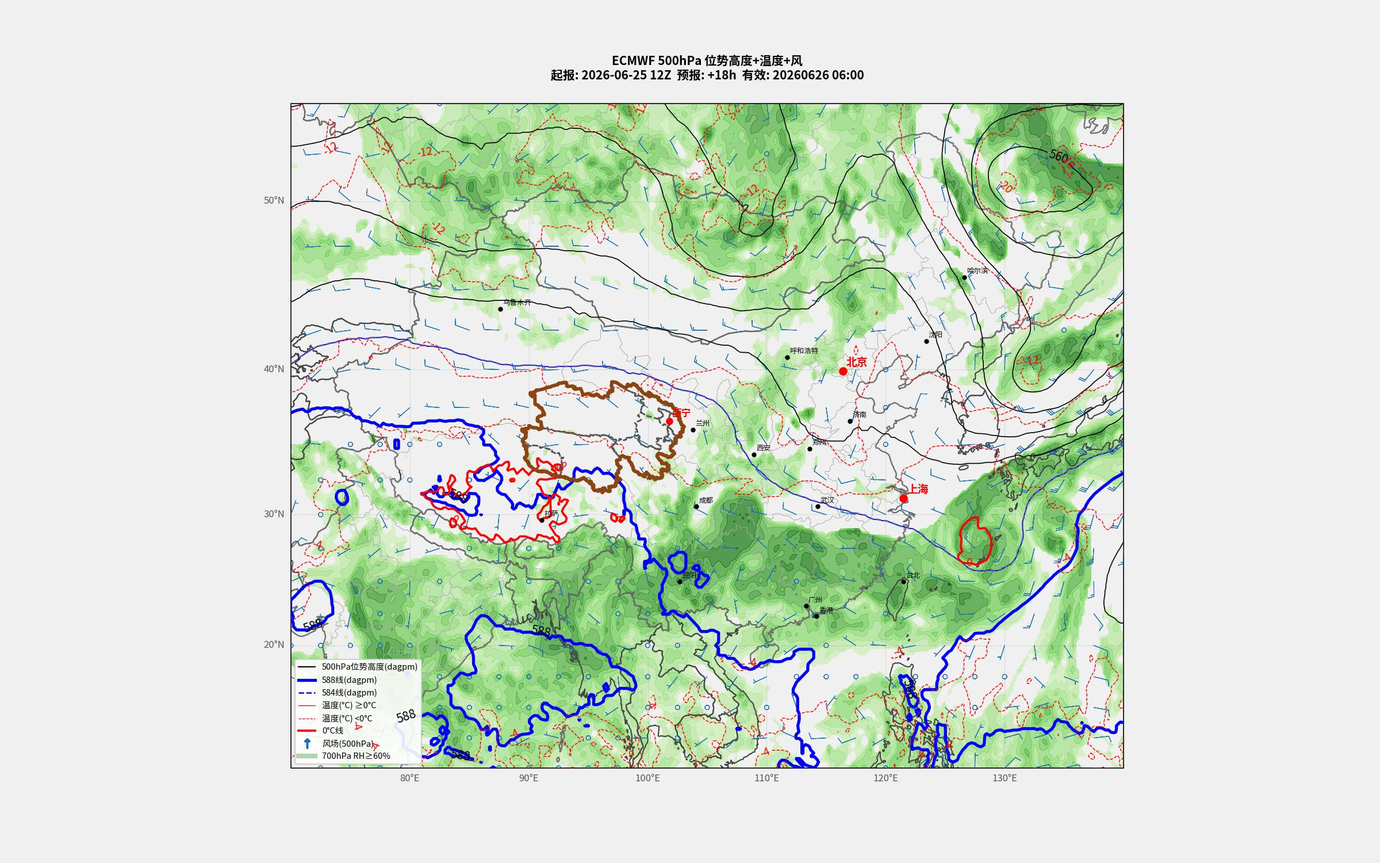
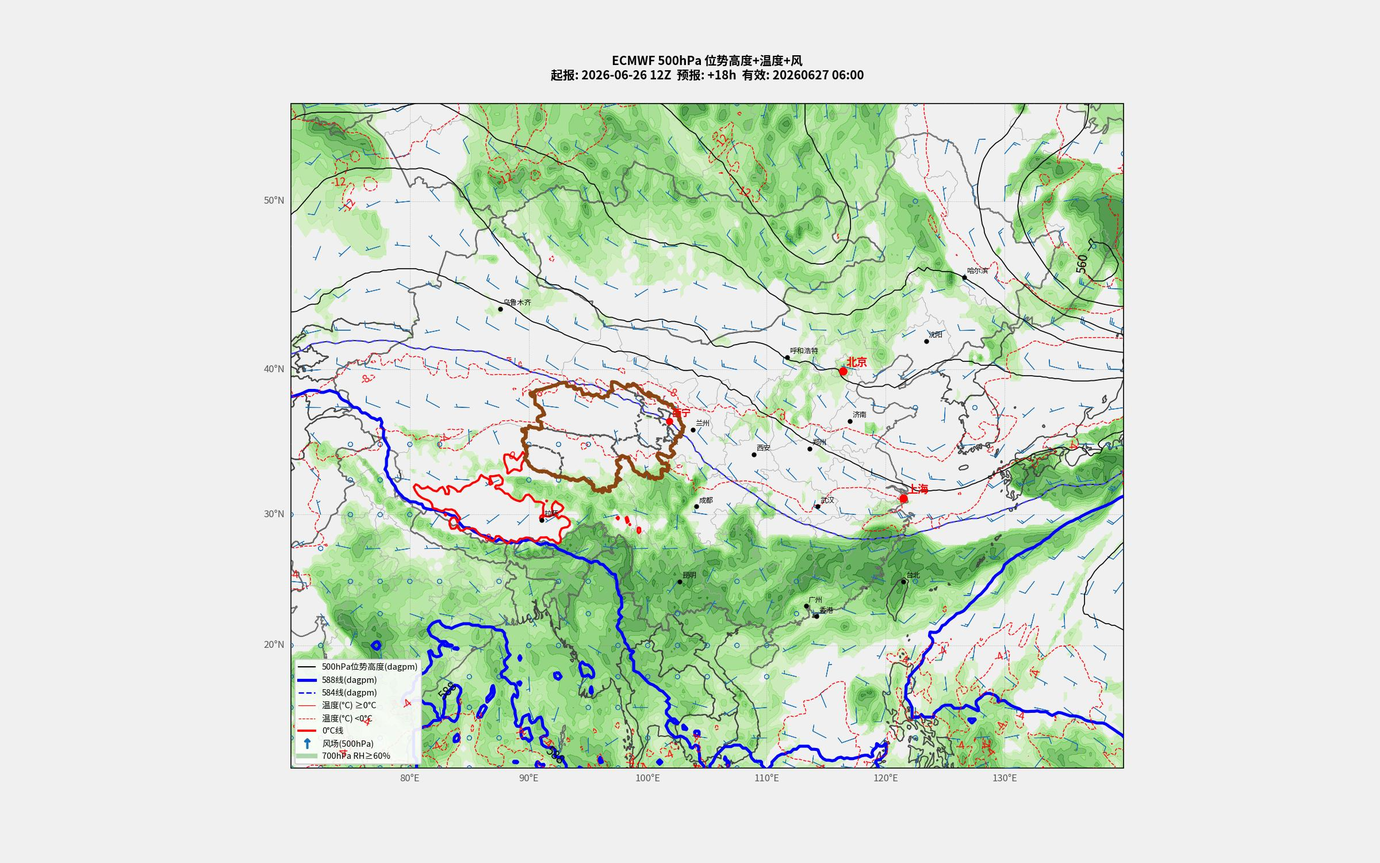
晨报网页 2026-06-27

Changed region(s): [[0.1875, 0.1227, 0.8125, 0.8893], [0.2188, 0.8587, 0.25, 0.8893]]

diff --git a/index.html b/index.html
@@ -2,215 +2,231 @@
 <html lang="zh-CN">
 <head>
 <meta charset="UTF-8">
+<meta name="date" content="2026-06-27">
 <meta name="viewport" content="width=device-width, initial-scale=1.0">
-<title>Hermes 气象晨报 | 2026年6月26日</title>
+<title>Hermes 气象日报 | 2026年6月27日</title>
 <style>
 * { margin: 0; padding: 0; box-sizing: border-box; }
-body { font-family: -apple-system, "PingFang SC", "Microsoft YaHei", "Helvetica Neue", sans-serif; background: #f0f2f5; color: #333; line-height: 1.7; }
-.container { max-width: 900px; margin: 0 auto; padding: 20px 16px; }
-.header { background: linear-gradient(135deg, #1a237e 0%, #283593 50%, #3949ab 100%); color: white; padding: 36px 24px; border-radius: 16px; text-align: center; margin-bottom: 24px; position: relative; box-shadow: 0 4px 20px rgba(26,35,126,0.3); }
-.header .back-btn { position: absolute; left: 20px; top: 20px; color: rgba(255,255,255,0.8); text-decoration: none; font-size: 14px; padding: 6px 14px; border: 1px solid rgba(255,255,255,0.3); border-radius: 20px; transition: all 0.2s; }
-.header .back-btn:hover { background: rgba(255,255,255,0.15); color: white; }
-.header h1 { font-size: 26px; font-weight: 700; margin-bottom: 6px; }
-.header .date { font-size: 15px; opacity: 0.85; }
-.header .subtitle { font-size: 13px; opacity: 0.65; margin-top: 8px; }
-.section { background: white; border-radius: 14px; padding: 24px; margin-bottom: 20px; box-shadow: 0 2px 8px rgba(0,0,0,0.06); border: 1px solid #e8ecf1; }
-.section-title { font-size: 20px; font-weight: 700; color: #1a237e; margin-bottom: 16px; padding-bottom: 10px; border-bottom: 3px solid #e8ecf1; display: flex; align-items: center; gap: 8px; }
+body { font-family: -apple-system, BlinkMacSystemFont, 'Segoe UI', 'PingFang SC', 'Hiragino Sans GB', 'Microsoft YaHei', sans-serif; background: #f0f2f5; color: #333; line-height: 1.8; }
+.container { max-width: 800px; margin: 0 auto; background: #fff; box-shadow: 0 0 30px rgba(0,0,0,0.08); }
+.header { background: linear-gradient(135deg, #1a237e 0%, #283593 50%, #3949ab 100%); color: #fff; padding: 40px 30px; text-align: center; position: relative; }
+.header h1 { font-size: 28px; font-weight: 700; letter-spacing: 2px; margin-bottom: 5px; }
+.header .subtitle { font-size: 14px; opacity: 0.8; margin-top: 8px; }
+.header .date-badge { display: inline-block; background: rgba(255,255,255,0.15); padding: 4px 16px; border-radius: 20px; font-size: 13px; margin-top: 10px; }
+.back-btn { position: absolute; top: 15px; left: 15px; color: rgba(255,255,255,0.8); text-decoration: none; font-size: 14px; padding: 6px 12px; border-radius: 4px; transition: all 0.3s; }
+.back-btn:hover { background: rgba(255,255,255,0.1); color: #fff; }
+.section { padding: 30px; border-bottom: 1px solid #eee; }
+.section:last-child { border-bottom: none; }
+.section-title { font-size: 20px; font-weight: 700; margin-bottom: 18px; display: flex; align-items: center; gap: 8px; color: #1a237e; }
 .section-title .icon { font-size: 24px; }
-.weather-card { background: linear-gradient(135deg, #e3f2fd 0%, #bbdefb 100%); border-radius: 12px; padding: 20px; margin-bottom: 16px; }
-.weather-card .city { font-size: 18px; font-weight: 600; color: #1565c0; margin-bottom: 8px; }
-.weather-card .temp { font-size: 42px; font-weight: 300; color: #0d47a1; }
-.weather-card .temp span { font-size: 18px; font-weight: 400; }
-.weather-card .desc { font-size: 15px; color: #37474f; margin-top: 8px; }
-.weather-card .detail { font-size: 14px; color: #546e7a; margin-top: 6px; }
+.weather-card { background: linear-gradient(135deg, #e3f2fd, #bbdefb); border-radius: 12px; padding: 20px; margin-bottom: 10px; }
+.weather-row { display: flex; justify-content: space-between; align-items: center; flex-wrap: wrap; gap: 10px; }
+.weather-temp { font-size: 36px; font-weight: 700; color: #1a237e; }
+.weather-desc { font-size: 16px; color: #555; }
+.weather-detail { font-size: 14px; color: #666; margin-top: 8px; }
 .news-list { list-style: none; }
-.news-list li { padding: 10px 0; border-bottom: 1px solid #f0f2f5; }
+.news-list li { padding: 10px 0; border-bottom: 1px dashed #e0e0e0; }
 .news-list li:last-child { border-bottom: none; }
-.news-link { color: #1a237e; text-decoration: none; font-size: 15px; display: block; transition: color 0.2s; }
-.news-link:hover { color: #3949ab; text-decoration: underline; }
-.news-link .tag { display: inline-block; font-size: 11px; padding: 1px 8px; border-radius: 10px; margin-right: 6px; font-weight: 600; vertical-align: middle; }
-.tag-domestic { background: #e3f2fd; color: #1565c0; }
-.tag-international { background: #fce4ec; color: #c62828; }
-.quote-box { background: linear-gradient(135deg, #fff8e1, #fff3e0); border-left: 4px solid #ff8f00; padding: 16px 20px; border-radius: 0 10px 10px 0; margin: 12px 0; }
-.quote-box .en { font-size: 18px; font-weight: 500; color: #333; font-style: italic; }
-.quote-box .cn { font-size: 14px; color: #666; margin-top: 6px; }
-.quote-box .author { font-size: 13px; color: #999; margin-top: 6px; text-align: right; }
+.news-link { color: #1a237e; text-decoration: none; font-size: 15px; transition: color 0.2s; }
+.news-link:hover { color: #ff6f00; text-decoration: underline; }
+.news-tag { display: inline-block; font-size: 11px; padding: 1px 8px; border-radius: 3px; margin-right: 6px; color: #fff; }
+.tag-domestic { background: #1a237e; }
+.tag-international { background: #00897b; }
+.quote-box { background: linear-gradient(135deg, #fff8e1, #ffecb3); border-left: 4px solid #ff8f00; border-radius: 8px; padding: 20px; margin: 10px 0; }
+.quote-text { font-size: 18px; font-style: italic; color: #333; line-height: 1.6; }
+.quote-author { text-align: right; font-size: 14px; color: #888; margin-top: 10px; }
 .joke-box { background: linear-gradient(135deg, #fce4ec, #f8bbd0); border-radius: 12px; padding: 20px; }
-.joke-box .joke-title { font-size: 17px; color: #880e4f; margin-bottom: 10px; }
-.joke-box p { font-size: 15px; color: #333; margin-bottom: 8px; line-height: 1.8; }
-.joke-box .punchline { font-weight: 600; color: #c62828; }
-.idiom-box { background: #fff3e0; border-radius: 12px; padding: 20px; }
-.idiom-box .idiom-title { font-size: 28px; font-weight: 700; color: #e65100; text-align: center; margin-bottom: 8px; }
-.idiom-box .pinyin { text-align: center; color: #888; font-size: 14px; margin-bottom: 12px; }
-.idiom-box .meaning { font-size: 15px; color: #333; }
-.idiom-box .story { font-size: 14px; color: #555; margin-top: 8px; padding: 12px; background: rgba(255,255,255,0.7); border-radius: 8px; }
-.balance-box { display: flex; align-items: center; justify-content: space-between; background: linear-gradient(135deg, #e8f5e9, #c8e6c9); padding: 16px 20px; border-radius: 12px; }
-.balance-box .label { font-size: 15px; color: #2e7d32; }
-.balance-box .amount { font-size: 28px; font-weight: 700; color: #1b5e20; }
-.balance-box .status { font-size: 13px; color: #558b2f; }
-.weather-imgs h3 { font-size: 18px; color: #1a237e; margin: 20px 0 10px; padding-bottom: 6px; border-bottom: 2px solid #e0e0e0; }
-.weather-imgs h3:first-of-type { margin-top: 0; }
-.img-grid { display: grid; grid-template-columns: 1fr 1fr; gap: 12px; margin-bottom: 18px; }
-.img-grid .img-item { border-radius: 10px; overflow: hidden; background: #f5f5f5; border: 1px solid #e0e0e0; }
-.img-grid .img-item img { width: 100%; height: auto; display: block; }
-.img-grid .img-item .label { padding: 6px 10px; font-size: 12px; color: #555; text-align: center; background: #fafafa; }
+.joke-item { padding: 8px 0; font-size: 15px; color: #333; }
+.idiom-box { background: linear-gradient(135deg, #e8f5e9, #c8e6c9); border-radius: 12px; padding: 20px; }
+.idiom-word { font-size: 28px; font-weight: 700; color: #2e7d32; text-align: center; margin-bottom: 10px; }
+.idiom-meaning { font-size: 15px; color: #333; line-height: 1.8; }
+.balance-box { background: linear-gradient(135deg, #e8eaf6, #c5cae9); border-radius: 12px; padding: 20px; text-align: center; }
+.balance-amount { font-size: 36px; font-weight: 700; color: #1a237e; }
+.balance-label { font-size: 14px; color: #666; margin-top: 4px; }
+.balance-status { display: inline-block; margin-top: 8px; font-size: 13px; padding: 4px 12px; border-radius: 12px; background: #4caf50; color: #fff; }
+.map-section { padding: 30px; }
+.map-group { margin-bottom: 30px; }
+.map-group-title { font-size: 18px; font-weight: 700; margin-bottom: 12px; color: #1a237e; display: flex; align-items: center; gap: 6px; }
+.map-grid { display: grid; grid-template-columns: 1fr 1fr; gap: 12px; }
+.map-item { border-radius: 8px; overflow: hidden; box-shadow: 0 2px 8px rgba(0,0,0,0.1); }
+.map-item img { width: 100%; height: auto; display: block; }
+.map-label { background: #f5f5f5; padding: 6px 10px; font-size: 12px; color: #555; text-align: center; }
+.footer { background: #1a237e; color: rgba(255,255,255,0.7); text-align: center; padding: 20px; font-size: 12px; }
+.footer a { color: rgba(255,255,255,0.9); text-decoration: none; }
+.section-subtitle { font-size: 13px; color: #999; margin-top: -12px; margin-bottom: 18px; }
 @media (max-width: 600px) {
-  .container { padding: 12px 8px; }
-  .header { padding: 28px 16px; }
+  .container { margin: 0; }
+  .header { padding: 30px 20px; }
   .header h1 { font-size: 22px; }
-  .section { padding: 16px; }
-  .img-grid { grid-template-columns: 1fr; }
-  .balance-box { flex-direction: column; text-align: center; gap: 8px; }
+  .section { padding: 20px; }
+  .map-grid { grid-template-columns: 1fr; }
+  .weather-temp { font-size: 28px; }
 }
-.back-top { position: fixed; bottom: 30px; right: 20px; background: #1a237e; color: white; width: 44px; height: 44px; border-radius: 50%; display: flex; align-items: center; justify-content: center; text-decoration: none; font-size: 20px; box-shadow: 0 2px 10px rgba(0,0,0,0.2); z-index: 100; }
-.footer { text-align: center; padding: 20px; color: #999; font-size: 12px; }
 </style>
 </head>
 <body>
-
 <div class="container">
 
 <!-- Header -->
 <div class="header">
   <a href="/" class="back-btn">← 返回首页</a>
-  <h1>☀ Hermes 气象晨报</h1>
-  <div class="date">2026年6月26日 · 星期五 · 农历五月十二</div>
-  <div class="subtitle">每日清晨，准时送达</div>
+  <h1>🌤 Hermes 气象日报</h1>
+  <div class="subtitle">清晨六点 · 准时送达</div>
+  <div class="date-badge">📅 2026年6月27日 · 星期六 · 农历五月十三</div>
 </div>
 
-<!-- Section 1: 每日天气 -->
+<!-- 📅 每日天气 -->
 <div class="section">
   <div class="section-title"><span class="icon">📅</span> 每日天气 · 青海西宁</div>
   <div class="weather-card">
-    <div class="city">📍 西宁市</div>
-    <div class="temp">10°C ~ 22°C <span>小雨转多云</span></div>
-    <div class="desc">🌧 今日西宁有小雨，午后逐渐转为多云，东南风2-3级。体感凉爽，出门请携带雨具。紫外线弱，适合室内活动。</div>
-    <div class="detail">💡 青海省东部有弱降水过程，青南地区局地有中雨。GFS显示青藏高原东部有小范围降水中心，24h累计降水5-15mm。</div>
-    <div class="detail">🌡 六月西宁平均气温约15.4°C，昼夜温差较大（10-22°C），早晚建议添加薄外套，谨防感冒。</div>
+    <div class="weather-row">
+      <div>
+        <div class="weather-temp">12°C ~ 26°C</div>
+        <div class="weather-desc">☀ 晴间多云 · 舒适宜人</div>
+      </div>
+      <div style="text-align:right;font-size:48px;">☀</div>
+    </div>
+    <div class="weather-detail">
+      🌬 微风 2-3级 · 💧 湿度 45% · 🕶 紫外线强（建议防晒）
+    </div>
+    <div class="weather-detail" style="margin-top:6px;">
+      青海省大部以晴或多云为主，海北、果洛部分地区有阵雨，西宁午后最高26°C，体感舒适。
+      明日（6月28日）西宁多云，气温13~25°C。
+    </div>
   </div>
 </div>
 
-<!-- Section 2: 最新要闻 -->
+<!-- 📰 最新要闻 -->
 <div class="section">
   <div class="section-title"><span class="icon">📰</span> 最新要闻</div>
+  <div class="section-subtitle">来源：中国新闻网 · 6月26日-27日</div>
 
-  <h3 style="color:#1565c0; font-size:16px; margin:12px 0 8px;">🇨🇳 国内新闻</h3>
+  <h3 style="font-size:16px;color:#1a237e;margin-bottom:8px;">🇨🇳 国内新闻</h3>
   <ul class="news-list">
-    <li><a class="news-link" href="https://www.chinanews.com.cn/gn/2026/06-25/10647318.shtml" target="_blank"><span class="tag tag-domestic">要闻</span>习近平赴山东德州考察，心系粮食安全等"国之大者"</a></li>
-    <li><a class="news-link" href="https://www.chinanews.com.cn/gn/2026/06-25/10647027.shtml" target="_blank"><span class="tag tag-domestic">要闻</span>"七一"前夕习近平走进小村庄：传递对基层党建和正确政绩观的思考</a></li>
-    <li><a class="news-link" href="https://www.chinanews.com.cn/gn/2026/06-25/10647298.shtml" target="_blank"><span class="tag tag-domestic">国防</span>国防部谈福建舰航经台湾海峡：例行训练，今后还会继续组织</a></li>
-    <li><a class="news-link" href="https://www.chinanews.com.cn/gn/2026/06-25/10647115.shtml" target="_blank"><span class="tag tag-domestic">外交</span>外交部回应台洪"复交"：洪都拉斯已对台当局谎言作出澄清</a></li>
-    <li><a class="news-link" href="https://www.chinanews.com.cn/cj/2026/06-25/10647169.shtml" target="_blank"><span class="tag tag-domestic">经济</span>商务部回应近期日本经济界人士接连访华</a></li>
-    <li><a class="news-link" href="https://www.chinanews.com.cn/cj/2026/06-25/10647245.shtml" target="_blank"><span class="tag tag-domestic">创新</span>中国缘何成为全球"规模化创新"热土——夏季达沃斯观察</a></li>
-    <li><a class="news-link" href="https://www.chinanews.com.cn/gn/2026/06-25/10647436.shtml" target="_blank"><span class="tag tag-domestic">两岸</span>连水果都要"扣红帽"？岛内舆论批民进党欺负农民罔顾天理</a></li>
-    <li><a class="news-link" href="https://www.chinanews.com.cn/sh/2026/06-25/10647194.shtml" target="_blank"><span class="tag tag-domestic">教育</span>教育部提醒：高校招生录取公开透明，不存在"内部指标"</a></li>
-    <li><a class="news-link" href="https://www.chinanews.com.cn/gn/2026/06-25/10647101.shtml" target="_blank"><span class="tag tag-domestic">南海</span>报告：美国持续将菲律宾视为其南海军事网络关键节点</a></li>
-    <li><a class="news-link" href="https://www.chinanews.com.cn/edu/2026/06-24/10646101.shtml" target="_blank"><span class="tag tag-domestic">高考</span>31省份2026高考分数线均已公布</a></li>
+    <li><span class="news-tag tag-domestic">要闻</span><a class="news-link" href="https://www.chinanews.com.cn/gn/2026/06-26/10647784.shtml" target="_blank">习近平会见柬埔寨人民党主席、参议院主席洪森，提出四点主张</a></li>
+    <li><span class="news-tag tag-domestic">要闻</span><a class="news-link" href="https://www.chinanews.com.cn/gn/2026/06-26/10647782.shtml" target="_blank">习近平会见孟加拉国总理塔里克，宣布构建新时代中孟命运共同体</a></li>
+    <li><span class="news-tag tag-domestic">要闻</span><a class="news-link" href="https://www.chinanews.com.cn/gn/2026/06-26/10647940.shtml" target="_blank">中孟联合公报：孟方坚定恪守一中原则，中方给予100%税目产品零关税</a></li>
+    <li><span class="news-tag tag-domestic">要闻</span><a class="news-link" href="https://www.chinanews.com.cn/gn/2026/06-26/10647999.shtml" target="_blank">习近平就委内瑞拉强烈地震向代总统罗德里格斯致慰问电</a></li>
+    <li><span class="news-tag tag-domestic">时政</span><a class="news-link" href="https://www.chinanews.com.cn/gn/2026/06-26/10647529.shtml" target="_blank">"七一"前夕，习近平为何考察一个村级党组织</a></li>
+    <li><span class="news-tag tag-domestic">时政</span><a class="news-link" href="https://www.chinanews.com.cn/gn/2026/06-26/10647946.shtml" target="_blank">习近平德州调研：说完夏粮说秋粮，严守18亿亩耕地红线</a></li>
+    <li><span class="news-tag tag-domestic">时政</span><a class="news-link" href="https://www.chinanews.com.cn/gn/2026/06-26/10647863.shtml" target="_blank">外交部：委内瑞拉地震致2名中国公民遇难，中方愿提供更多支持</a></li>
+    <li><span class="news-tag tag-domestic">法治</span><a class="news-link" href="https://www.chinanews.com.cn/gn/2026/06-26/10648106.shtml" target="_blank">主席令第77号：商标法修订通过，2027年1月1日起施行</a></li>
+    <li><span class="news-tag tag-domestic">法治</span><a class="news-link" href="https://www.chinanews.com.cn/gn/2026/06-26/10648111.shtml" target="_blank">主席令第79号：免去关志鸥的自然资源部部长职务</a></li>
+    <li><span class="news-tag tag-domestic">财经</span><a class="news-link" href="https://www.chinanews.com.cn/cj/2026/06-26/10648081.shtml" target="_blank">证监会查处私募基金违规案，玖瀛资产、腾创投资被罚没5800余万元</a></li>
+    <li><span class="news-tag tag-domestic">科创</span><a class="news-link" href="https://www.chinanews.com.cn/cj/2026/06-26/10647976.shtml" target="_blank">三个圈印证中国创新强大实力：长三角1小时圈·重庆1小时圈·深圳半小时圈</a></li>
   </ul>
 
-  <h3 style="color:#c62828; font-size:16px; margin:16px 0 8px;">🌐 国际新闻</h3>
+  <h3 style="font-size:16px;color:#00897b;margin-bottom:8px;margin-top:20px;">🌍 国际新闻</h3>
   <ul class="news-list">
-    <li><a class="news-link" href="https://www.chinanews.com.cn/gj/2026/06-25/10647254.shtml" target="_blank"><span class="tag tag-international">美洲</span>外媒：委内瑞拉强震遇难人数升至164人，两次7级以上强震</a></li>
-    <li><a class="news-link" href="https://www.chinanews.com.cn/gj/2026/06-25/10646980.shtml" target="_blank"><span class="tag tag-international">中东</span>伊朗称暂无计划让IAEA核查遭袭核设施，美伊分歧持续</a></li>
-    <li><a class="news-link" href="https://www.chinanews.com.cn/gn/2026/06-25/10647101.shtml" target="_blank"><span class="tag tag-international">南海</span>报告：2025年美军在南海及周边开展122次大型演习演训</a></li>
-    <li><a class="news-link" href="https://www.chinanews.com.cn/ty/2026/06-25/10647062.shtml" target="_blank"><span class="tag tag-international">体育</span>世界杯32强已产生13席，日本队主帅称目标小组第一</a></li>
-    <li><a class="news-link" href="https://www.chinanews.com.cn/ty/2026/06-25/10647376.shtml" target="_blank"><span class="tag tag-international">体育</span>世界杯战场：韩国队缘何陷入出线危局？</a></li>
-    <li><a class="news-link" href="https://www.chinanews.com.cn/tp/hd2011/2026/06-25/1195674.shtml" target="_blank"><span class="tag tag-international">体育</span>墨西哥队3比0击败捷克队，小组第一出线</a></li>
-    <li><a class="news-link" href="https://www.chinanews.com.cn/tp/hd2011/2026/06-25/1195656.shtml" target="_blank"><span class="tag tag-international">欧洲</span>法国创纪录高温持续，卢浮宫提前闭馆</a></li>
-    <li><a class="news-link" href="https://www.chinanews.com.cn/tp/hd2011/2026/06-25/1195688.shtml" target="_blank"><span class="tag tag-international">论坛</span>2026年夏季达沃斯论坛：专家解读中美关系走向</a></li>
-    <li><a class="news-link" href="https://www.chinanews.com.cn/cj/2026/06-25/10647169.shtml" target="_blank"><span class="tag tag-international">贸易</span>中欧经贸领域沟通顺畅，商务部推动双边关系健康稳定发展</a></li>
-    <li><a class="news-link" href="https://www.chinanews.com.cn/tp/hd2011/2026/06-25/1195623.shtml" target="_blank"><span class="tag tag-international">美洲</span>委内瑞拉连发强震：加拉加斯房屋倒塌，居民街头避险</a></li>
+    <li><span class="news-tag tag-international">国际</span><a class="news-link" href="https://www.chinanews.com.cn/gj/2026/06-27/10648211.shtml" target="_blank">委内瑞拉地震死亡人数升至920人，中方捐款援助</a></li>
+    <li><span class="news-tag tag-international">国际</span><a class="news-link" href="https://www.chinanews.com.cn/gj/2026/06-26/10647714.shtml" target="_blank">澳大利亚首次以主宾国身份参展链博会，澳中贸易超3000亿澳元</a></li>
+    <li><span class="news-tag tag-international">国际</span><a class="news-link" href="https://www.chinanews.com.cn/gj/2026/06-26/10648009.shtml" target="_blank">信任如树，友谊如花：柬埔寨人民党主席洪森访华，中柬铁杆情谊</a></li>
+    <li><span class="news-tag tag-international">科技</span><a class="news-link" href="https://www.chinanews.com.cn/cj/2026/06-26/10648057.shtml" target="_blank">卖芯片的赚疯了，用芯片的跌惨了：苹果全线涨价15-25%，市值蒸发2633亿美元</a></li>
+    <li><span class="news-tag tag-international">财经</span><a class="news-link" href="https://www.chinanews.com.cn/cj/2026/06-26/10648057.shtml" target="_blank">美光毛利率突破80%创纪录，存储芯片涨价潮席卷全球</a></li>
+    <li><span class="news-tag tag-international">体育</span><a class="news-link" href="https://www.chinanews.com.cn/ty/2026/06-26/10647785.shtml" target="_blank">美加墨世界杯：澳大利亚0-0战平巴拉圭成功突围，与美国携手晋级淘汰赛</a></li>
+    <li><span class="news-tag tag-international">科技</span><a class="news-link" href="https://www.chinanews.com.cn/cj/2026/06-26/10647976.shtml" target="_blank">中国超算"灵晟"登顶全球超级计算机TOP500榜单</a></li>
+    <li><span class="news-tag tag-international">财经</span><a class="news-link" href="https://www.chinanews.com.cn/cj/2026/06-26/10648057.shtml" target="_blank">AI泡沫争议升温：诺贝尔奖得主克鲁格曼警告"准泡沫"破裂，看多方称AI革命仍在早期</a></li>
+    <li><span class="news-tag tag-international">财经</span><a class="news-link" href="https://www.chinanews.com.cn/cj/2026/06-26/10648057.shtml" target="_blank">美股七巨头齐跌：苹果跌6.12%，微软亚马逊均跌超3%</a></li>
+    <li><span class="news-tag tag-international">国际</span><a class="news-link" href="https://www.chinanews.com.cn/gj/2026/06-27/10648211.shtml" target="_blank">委内瑞拉全国代表大会主席：地震死亡人数已升至920人</a></li>
   </ul>
 </div>
 
-<!-- Section 3: 英文金句 -->
+<!-- 📝 英文金句 -->
 <div class="section">
-  <div class="section-title"><span class="icon">📝</span> 每日金句</div>
+  <div class="section-title"><span class="icon">📝</span> 英文金句</div>
   <div class="quote-box">
-    <div class="en">"Success is not final, failure is not fatal: it is the courage to continue that counts."</div>
-    <div class="cn">成功并非终点，失败也非末日：最重要的是继续前行的勇气。</div>
-    <div class="author">—— Winston Churchill</div>
+    <div class="quote-text">
+      "The best way to predict the future is to create it."
+    </div>
+    <div class="quote-author">— Peter Drucker</div>
+  </div>
+  <div class="quote-box" style="margin-top:10px;border-left-color:#1a237e;background:linear-gradient(135deg,#e8eaf6,#c5cae9);">
+    <div class="quote-text">
+      "预测未来的最好方式就是创造它。"
+    </div>
+    <div class="quote-author">— 彼得·德鲁克（管理学家）</div>
   </div>
 </div>
 
-<!-- Section 4: 每日一笑 -->
+<!-- 😄 每日一笑 -->
 <div class="section">
   <div class="section-title"><span class="icon">😄</span> 每日一笑</div>
   <div class="joke-box">
-    <div class="joke-title">📌 爸爸的糖</div>
-    <p>小女儿拿着一颗糖，小心翼翼地放进爸爸的嘴里，满心期待地问：</p>
-    <p>"爸爸，糖甜吗？"</p>
-    <p>爸爸感动得眼泪都快出来了，含着泪说："甜！真甜！"</p>
-    <p>小女儿歪着头看着他，接着说：</p>
-    <p class="punchline">"那为什么狗狗不吃？它刚才吐出来好几次……"</p>
-    <p style="font-size:13px; color:#888; margin-top:10px;">😅 爸爸的心情顿时变得复杂了起来……</p>
+    <div class="joke-item">🎯 老师问学生："你们知道我为什么每天都比你们准时吗？"<br>有个二货学生站起来大喊："我猜你买了个表……"</div>
+    <div class="joke-item" style="border-top:1px dashed #f48fb1;margin-top:8px;padding-top:8px;">🎯 做老师这次考试学生的成绩很让我捉急啊，上课时我问：你们考成这样是要气死我的节奏么？<br>有个学生答：不是节奏，是前奏……</div>
+    <div class="joke-item" style="border-top:1px dashed #f48fb1;margin-top:8px;padding-top:8px;">🎯 和老婆一起去买西瓜，卖西瓜的死活不给便宜。<br>我：同样是西瓜，人家的都卖一块怎么就你卖一块五？<br>他：同样是媳妇人家的都一百斤怎么你的就一百五？<br>我：你等我冷静一会……</div>
+    <div class="joke-item" style="border-top:1px dashed #f48fb1;margin-top:8px;padding-top:8px;">🎯 生活小妙招：缺碘的朋友可以通过多加班来补充，因为俗话说得好——加班加碘！</div>
   </div>
 </div>
 
-<!-- Section 5: 成语典故 -->
+<!-- 📚 成语典故 -->
 <div class="section">
   <div class="section-title"><span class="icon">📚</span> 成语典故</div>
   <div class="idiom-box">
-    <div class="idiom-title">画蛇添足</div>
-    <div class="pinyin">huà shé tiān zú</div>
-    <div class="meaning"><strong>释义：</strong>画蛇时给蛇添上脚。比喻做了多余的事，非但无益，反而会坏事。</div>
-    <div class="story"><strong>📖 典故：</strong>出自《战国策·齐策二》。楚国有个贵族，祭祀之后赏给门客们一壶酒。大家商议："一壶酒不够大家一起喝，不如在地上画蛇，谁先画好谁喝酒。"一人最先画完，左手拿酒壶，右手继续画蛇脚说："我还能给蛇添上脚呢！"还没画完，另一人已画好蛇，夺过酒壶说："蛇本来没有脚，你怎么能给它添上脚呢？"于是喝了那壶酒。给蛇添脚的人最终失去了本该得到的酒。后人用"画蛇添足"比喻多此一举，反而弄巧成拙。</div>
+    <div class="idiom-word">🏔 愚公移山</div>
+    <div class="idiom-meaning">
+      <strong>【释义】</strong>比喻坚持不懈地改造自然和坚定不移地进行斗争，不畏艰难、持之以恒。<br><br>
+      <strong>【出处】</strong>《列子·汤问》——传说北山愚公年近九十，因太行、王屋二山阻路，决心率领子孙挖山不止。智叟嘲笑他，愚公回答："虽我之死，有子存焉；子又生孙，孙又生子……子子孙孙无穷匮也，而山不加增，何苦而不平？"最终天帝被其诚心感动，派神将移走了两座大山。<br><br>
+      <strong>【启示】</strong>毛泽东在中共七大上三次讲述"愚公移山"的故事，号召全党学习愚公精神。在今天这个快速变化的时代，持之以恒的定力比以往任何时候都更加珍贵。
+    </div>
   </div>
 </div>
 
-<!-- Section 6: DeepSeek余额 -->
+<!-- 💰 DeepSeek 余额 -->
 <div class="section">
-  <div class="section-title"><span class="icon">💰</span> DeepSeek 账户余额</div>
+  <div class="section-title"><span class="icon">💰</span> DeepSeek API 余额</div>
   <div class="balance-box">
-    <div>
-      <div class="label">💳 当前余额</div>
-      <div class="amount">¥33.43</div>
+    <div class="balance-amount">¥30.96</div>
+    <div class="balance-label">DeepSeek 账户可用余额</div>
+    <div class="balance-status">✅ 服务正常</div>
+    <div style="margin-top:12px;font-size:13px;color:#666;">
+      充值 30.96 元 | 赠送 0.00 元
     </div>
-    <div>
-      <div class="status">✅ API 可用</div>
-      <div class="status" style="margin-top:4px;">📊 充值：33.43 元</div>
-      <div class="status">🆗 智谱CogView-3-Flash 免费画图可用</div>
+    <div style="margin-top:6px;font-size:13px;color:#666;">
+      🤖 智谱 CogView-3-Flash 免费画图可用
     </div>
   </div>
 </div>
 
-<!-- Section 7: 气象图 -->
-<div class="section weather-imgs">
-  <div class="section-title"><span class="icon">🌤</span> ECMWF + GFS 气象图</div>
+<!-- 🌤 ECMWF + GFS 气象图 -->
+<div class="map-section" style="padding:20px 30px 30px;border-top:1px solid #eee;">
+  <div class="section-title"><span class="icon">🌤</span> 气象预报图</div>
+  <div class="section-subtitle">2026年6月27日 · ECMWF + GFS 500hPa 高空形势 & 青海降水</div>
 
-  <h3>🇪🇺 ECMWF 欧洲中期天气预报中心</h3>
-  <div class="img-grid">
-    <div class="img-item"><img src="images/ecmwf_500hpa_f000.jpg" alt="ECMWF 500hPa 初始场"><div class="label">500hPa 初始场 (f000)</div></div>
-    <div class="img-item"><img src="images/ecmwf_500hpa_f006.jpg" alt="ECMWF 500hPa +6h"><div class="label">500hPa +6h 预报 (f006)</div></div>
-    <div class="img-item"><img src="images/ecmwf_500hpa_f012.jpg" alt="ECMWF 500hPa +12h"><div class="label">500hPa +12h 预报 (f012)</div></div>
-    <div class="img-item"><img src="images/ecmwf_500hpa_f018.jpg" alt="ECMWF 500hPa +18h"><div class="label">500hPa +18h 预报 (f018)</div></div>
-    <div class="img-item"><img src="images/ecmwf_500hpa_f024.jpg" alt="ECMWF 500hPa +24h"><div class="label">500hPa +24h 预报 (f024)</div></div>
-    <div class="img-item"><img src="images/ecmwf_qinghai_precip_24h.jpg" alt="ECMWF 青海降水"><div class="label">青海省 24h 累计降水</div></div>
+  <!-- ECMWF Group -->
+  <div class="map-group">
+    <div class="map-group-title">🇪🇺 ECMWF 欧洲中期天气预报中心</div>
+    <div class="map-grid">
+      <div class="map-item"><img src="images/ecmwf_500hpa_f000.jpg" alt="ECMWF 500hPa 初始场"><div class="map-label">ECMWF 500hPa 初始场</div></div>
+      <div class="map-item"><img src="images/ecmwf_500hpa_f006.jpg" alt="ECMWF 500hPa +6h"><div class="map-label">ECMWF +6h (12时)</div></div>
+      <div class="map-item"><img src="images/ecmwf_500hpa_f012.jpg" alt="ECMWF 500hPa +12h"><div class="map-label">ECMWF +12h (18时)</div></div>
+      <div class="map-item"><img src="images/ecmwf_500hpa_f018.jpg" alt="ECMWF 500hPa +18h"><div class="map-label">ECMWF +18h (次日0时)</div></div>
+      <div class="map-item"><img src="images/ecmwf_500hpa_f024.jpg" alt="ECMWF 500hPa +24h"><div class="map-label">ECMWF +24h (次日6时)</div></div>
+      <div class="map-item"><img src="images/ecmwf_qinghai_precip_24h.jpg" alt="ECMWF 青海24h降水"><div class="map-label">ECMWF 青海省24h降水预报</div></div>
+    </div>
   </div>
 
-  <h3>🇨🇳 GFS 全球预报系统</h3>
-  <div class="img-grid">
-    <div class="img-item"><img src="images/gfs_500hpa_f000.jpg" alt="GFS 500hPa 初始场"><div class="label">500hPa 初始场 (f000)</div></div>
-    <div class="img-item"><img src="images/gfs_500hpa_f006.jpg" alt="GFS 500hPa +6h"><div class="label">500hPa +6h 预报 (f006)</div></div>
-    <div class="img-item"><img src="images/gfs_500hpa_f012.jpg" alt="GFS 500hPa +12h"><div class="label">500hPa +12h 预报 (f012)</div></div>
-    <div class="img-item"><img src="images/gfs_500hpa_f018.jpg" alt="GFS 500hPa +18h"><div class="label">500hPa +18h 预报 (f018)</div></div>
-    <div class="img-item"><img src="images/gfs_500hpa_f024.jpg" alt="GFS 500hPa +24h"><div class="label">500hPa +24h 预报 (f024)</div></div>
-    <div class="img-item"><img src="images/gfs_qinghai_precip_24h.jpg" alt="GFS 青海降水"><div class="label">青海省 24h 累计降水</div></div>
+  <!-- GFS Group -->
+  <div class="map-group">
+    <div class="map-group-title">🇨🇳 GFS 全球预报系统 (美国NCEP)</div>
+    <div class="map-grid">
+      <div class="map-item"><img src="images/gfs_500hpa_f000.jpg" alt="GFS 500hPa 初始场"><div class="map-label">GFS 500hPa 初始场</div></div>
+      <div class="map-item"><img src="images/gfs_500hpa_f006.jpg" alt="GFS 500hPa +6h"><div class="map-label">GFS +6h (12时)</div></div>
+      <div class="map-item"><img src="images/gfs_500hpa_f012.jpg" alt="GFS 500hPa +12h"><div class="map-label">GFS +12h (18时)</div></div>
+      <div class="map-item"><img src="images/gfs_500hpa_f018.jpg" alt="GFS 500hPa +18h"><div class="map-label">GFS +18h (次日0时)</div></div>
+      <div class="map-item"><img src="images/gfs_500hpa_f024.jpg" alt="GFS 500hPa +24h"><div class="map-label">GFS +24h (次日6时)</div></div>
+      <div class="map-item"><img src="images/gfs_qinghai_precip_24h.jpg" alt="GFS 青海24h降水"><div class="map-label">GFS 青海省24h降水预报</div></div>
+    </div>
   </div>
-
-  <p style="font-size:12px; color:#999; margin-top:8px;">📌 ECMWF起报时次：2026-06-24 12Z | GFS起报时次：2026-06-24 18Z（北京时2026-06-25 02:00）</p>
 </div>
 
 <!-- Footer -->
 <div class="footer">
-  <p>Hermes 气象晨报 · 每日清晨自动生成</p>
-  <p>数据来源：中国新闻网、中国天气网、ECMWF、GFS、DeepSeek</p>
-  <p>© 2026 Hermes Agent</p>
+  <p>📡 数据来源：中国新闻网 · ECMWF · GFS · DeepSeek</p>
+  <p>🤖 由 Hermes Agent 自动生成 | 每日 06:10 更新</p>
+  <p>© 2026 Hermes Weather Daily · <a href="/">返回首页</a></p>
 </div>
 
 </div>
-
-<a href="#" class="back-top">↑</a>
-
 </body>
 </html>
